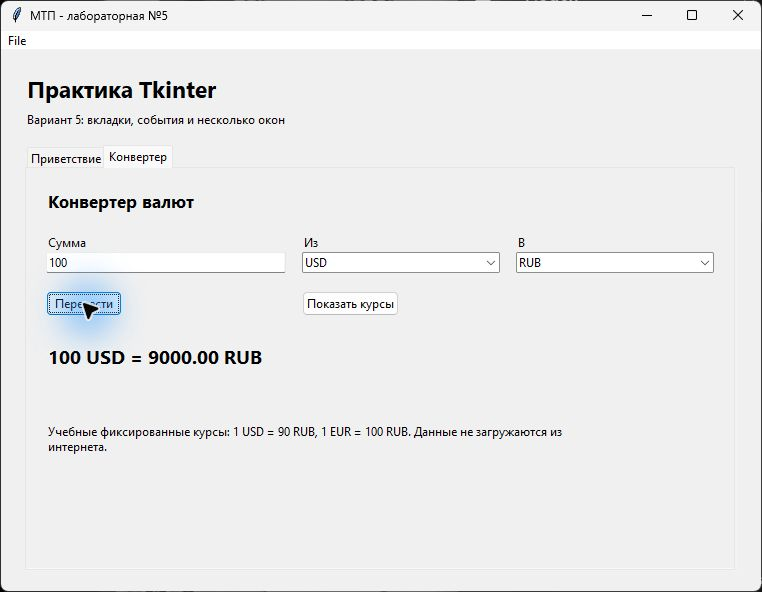
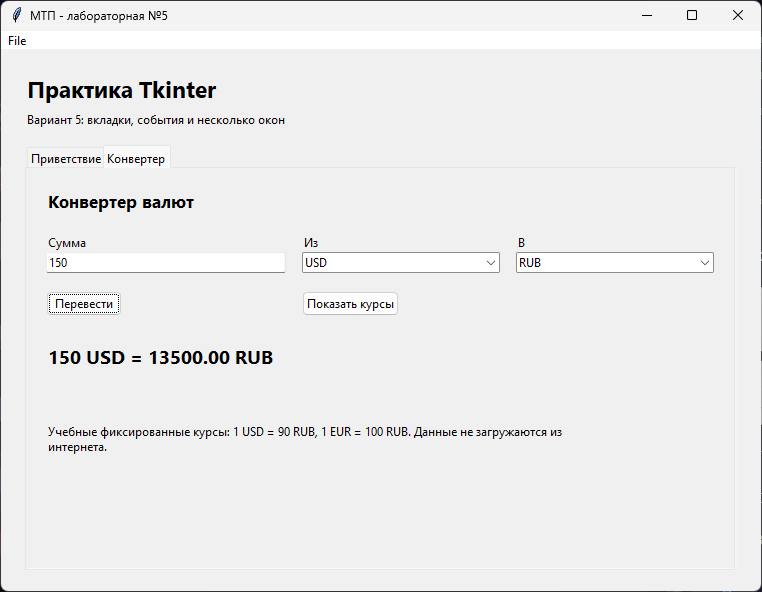
docs: обновить снимки интерфейса

diff --git a/docs/checks.md b/docs/checks.md
@@ -30,6 +30,9 @@ Tcl/Tk 8.6.12.
 
 Снимки сохранены непосредственно из запущенного приложения, без макетов:
 
+На снимке приветствия показано состояние до нажатия кнопки. На снимке
+конвертера приведён дополнительный пример: `150 USD = 13500.00 RUB`.
+
 - [Приветствие](screenshots/greeting.jpg).
 - [Конвертация](screenshots/converter.jpg).
 - [Главное и дополнительное окна](screenshots/rates-window.jpg).
